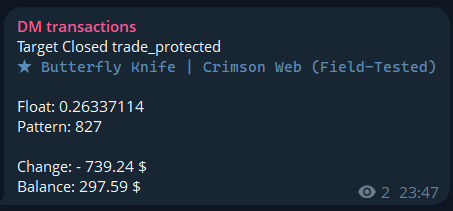
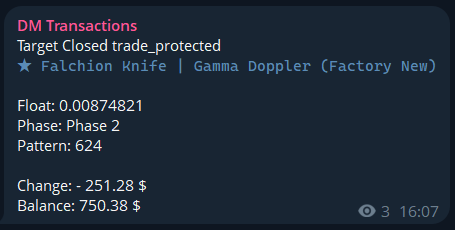
buys fetch, types and readme improve
Change from /history to /user-targets/closed endpoint for fetching buy history. Added new types to handle it.
Updated readme with key problems and solution suggestions. Added TL;DR.
Changed "target closed" post example to show every item's meta-data is printable.

diff --git a/services/transactions.go b/services/transactions.go
@@ -22,21 +22,22 @@ func GetAllTransactions(secretKeys []string) map[string]map[string]float64 {
 	rootApiUrl := "https://api.dmarket.com"
 	client := &http.Client{}
 
-	fmt.Println("Loading all historical transactions to build price cache...")
+	fmt.Println("Loading purchase(s) history...")
 
 	for _, key := range secretKeys {
-		// Initialize the inner map for this secret key
+		// Initialize inner map
 		if _, exists := allTransactions[key]; !exists {
 			allTransactions[key] = make(map[string]float64)
 		}
+		
+		// totalLimit := 100000 // Limit how much buy transactions you want to check
 
-		offset := 0
-		limit := 1000 // Batch size
+		cursor := "" // Start with empty cursor
 		keepFetching := true
-
+		
 		for keepFetching {
-			// Check "purchase" and "target_closed" to find BUY prices.
-			endpoint := fmt.Sprintf("/exchange/v1/history?version=V3&from=0&activities=purchase,target_closed&statuses=success,trade_protected&offset=%d&limit=%d", offset, limit)
+			// Construct URL with Cursor
+			endpoint := fmt.Sprintf("/marketplace-api/v1/user-targets/closed?Limit=500&Status=successful,trade_protected&Cursor=%s", cursor)
 			
 			headers, _ := generateHeaders(key, method, endpoint, nil)
 			req, _ := http.NewRequest(method, rootApiUrl+endpoint, nil)
@@ -44,55 +45,53 @@ func GetAllTransactions(secretKeys []string) map[string]map[string]float64 {
 
 			resp, err := client.Do(req)
 			if err != nil {
-				break 
+				time.Sleep(5 * time.Second)
+				continue
+			}
+
+			// Handle Rate Limits
+			if resp.StatusCode == 429 {
+				resp.Body.Close()
+				time.Sleep(5 * time.Second)
+				continue 
+			}
+			
+			if resp.StatusCode != 200 {
+				body, _ := io.ReadAll(resp.Body)
+				resp.Body.Close()
+				fmt.Printf("API Error %d: %s\n", resp.StatusCode, string(body))
+				break
 			}
 			
 			body, err := io.ReadAll(resp.Body)
 			resp.Body.Close()
-			if err != nil {
-				fmt.Printf("Read body error: %v\n", err)
-				break
-			}
 
-			var response types.TransactionsResponse
+			var response types.UserTargetsClosedResponse
 			if err := json.Unmarshal(body, &response); err != nil {
 				fmt.Printf("Unmarshal error: %v\n", err)
 				break
 			}
 
-			// Process this batch
-			if len(response.Objects) == 0 {
-				keepFetching = false
-			} else {
-				for _, tx := range response.Objects {
-					// We only care if there is an ItemID and a valid money amount
-					if tx.Details.ItemID != "" && len(tx.Changes) > 0 {
-						amountStr := tx.Changes[0].Money.Amount
-						price, err := strconv.ParseFloat(amountStr, 64)
-						if err == nil {
-							// Store the buy price for this ItemID
-							allTransactions[key][tx.Details.ItemID] = price
-						}
-					}
-				}
-				
-				// Set offset
-				offset += len(response.Objects)
-				
-				// Slight delay
-				time.Sleep(100 * time.Millisecond)
-				
-				// Stop if got less object than limit (means last page)
-				if len(response.Objects) < limit {
-					keepFetching = false
+			// Process items
+			for _, trade := range response.Trades {
+				if trade.AssetID != "" {
+					allTransactions[key][trade.AssetID] = trade.Price.Amount
 				}
 			}
+
+			// Pagination
+			if response.Cursor == "" {
+				keepFetching = false
+			} else {
+				// Update cursor and little time sleep
+				cursor = response.Cursor
+				time.Sleep(100 * time.Millisecond)
+			}
 		}
-		fmt.Printf("Loaded %d items for key %s\n", len(allTransactions[key]), key[64:])
+		fmt.Printf("Total loaded buy transaction for key ...%s: %d items\n", key[64:96], len(allTransactions[key]))
 	}
 
 	return allTransactions
-
 }
 
 func GetLastTransactions(keysStamps map[string]string) (map[string][]types.Transaction){
@@ -167,7 +166,6 @@ func PostTransactions(transactions map[string][]types.Transaction, allTransactio
 			showProfit := false
 			
 			// save bought items to dict
-
 			if tx.Type == "purchase" || tx.Type == "target_closed" {
 				if tx.Details.ItemID != "" {
 					allTransactions[key][tx.Details.ItemID] = change

diff --git a/types/types.go b/types/types.go
@@ -55,3 +55,23 @@ type TransactionsResponse struct {
 	Objects []Transaction `json:"objects"`
 	Total   int           `json:"total"`
 }
+
+type TargetTrade struct {
+	OfferID  string `json:"OfferID"`
+	TargetID string `json:"TargetID"`
+	AssetID  string `json:"AssetID"` // This corresponds to ItemID
+	Price    struct {
+		CurrencyCode string  `json:"CurrencyCode"`
+		Amount       float64 `json:"Amount"`
+	} `json:"Price"`
+	Title            string `json:"Title"`
+	ClosedAt         string `json:"ClosedAt"`
+	Status           string `json:"Status"`
+	FinalizationTime string `json:"FinalizationTime"`
+}
+
+type UserTargetsClosedResponse struct {
+	Trades []TargetTrade `json:"Trades"`
+	Total  string        `json:"Total"`  // API returns this as a string number
+	Cursor string        `json:"Cursor"` // Used for pagination
+}

diff --git a/README.md b/README.md
@@ -1,6 +1,13 @@
 # DMarket-To-Telegram Transactions Poster
 
-A Go application to post DMarket transactions such as Sales, Purchases and Closed Targets to Telegram.
+A Go application to post DMarket Sales, Purchases and Closed Targets transactions to Telegram channel.
+
+## Structure
+
+- `cmd/transactionTracker/`: Main executable entrypoint.
+- `services/`: Shared Go modules (e.g., headers builder, transactions, timestamps).
+- `types/`: Types of DMarket responses for service files
+- `config/`: Your keys and templates (real files ignored by Git via `.gitignore`).
 
 ## Setup
 
@@ -31,17 +38,11 @@ Requires **Go 1.16+** (tested on Go 1.24.5, Windows 10).
 5. Run the app:
    - `go run cmd/transactionTracker/main.go`
 
-     or build an .exe file:
+     or (i recommend) build an .exe file:
 
    - `go build -o DMTransactions.exe ./cmd/transactionTracker`
 
 **Troubleshooting**: If configs fail to load, check JSON format. Set `GOPATH` if not default. For multi-account, ensure arrays in JSON match (e.g., private keys index to public keys).
-
-## Structure
-
-- `cmd/transactionTracker/`: Main executable entrypoint.
-- `services/`: Shared Go modules (e.g., headers builder, transactions, timestamps by keys).
-- `config/`: Your keys and templates (real files ignored by Git via `.gitignore`).
 
 ## Dependencies
 
@@ -72,22 +73,52 @@ Reverted Sell post example (from older code version):
 
    This code is **not** what professional project should be like.
 
-2. There are some inconveniences, "rules" and limitations due to DMarket's web history and dumb "programmer":
-   2.1) This code uses history endpoint with sorting **by updatedAt**. This means that transactions that were trade protected **will be posted again** with the new status "Success" or "Reverted".
+2. There are some notes and inconveniences due to DMarket's web history and dumb "programmer":
 
-   2.1.1) This "double-posting" can be "fixed" by adding `&sortBy=createdAt` http param to the endpoint in `func GetLastTransactions()`. **However,** using this will **not** let you know if a transaction got "Reverted" or moved from pending to "Success".
+   2.1) This code uses web `/history` endpoint with sorting by **updatedAt**. This means that transactions that were trade protected **will be posted again** with the new status "Success" or "Reverted". This "double-posting" can be "fixed" by adding `&sortBy=createdAt` http param to the endpoint in `func GetLastTransactions()`.
 
-   2.2) Balance amount **is approximation** if transaction type is "Sell" or "Target Closed" due to DMarket's balance field calculated as `usable balance + lot sold price`, **not income**, so I manually cut out the 2% fee. **However,** for items cheaper than ~7$, the sale fee is 10%. This code does **not** check each item's price and fees. _It could be fixed by requesting balance endpoint everytime, but i'm too lazy for this._
-   Also, i do **not** track "Instant sale" and "Trade" actions because i don't use them. Adding this **requires** more code changes than just adding parameters to link.
+   **However,** using this will **not** let you know if a transaction got "Reverted" or moved from pending to "Success".
 
-   2.3) The profit line **will not** appear every time because **itemId**s are **not** available in some new transactions and all transactions made roughly **before** September 2025.
-   _Maybe i will "expand" "bought-list" using /user-targets/closed endpoint in future_.
+   2.2) Balance amount **is approximation** if transaction type is "Sell" or "Target Closed" due to DMarket's balance field calculated as `usable balance + lot sold price` (**not net income**), so I simulate the 2% fee.
+   **However:** 
+   - 2.2.1) For items cheaper than ~ 7$, the sale fee is 10%. 
+   - 2.2.2) Also, i do **not** track "Instant sale" and "Trade" actions because i don't use them.
 
-   2.4) History **does not** respond with offset greater than **100.000**. I dont have this many transactions, so i probably won't bother fixing it for now.
+   _Adding new actions tracking and requesting balance requires new functions and changing other._
 
-   2.5) This code requests up to 10 last updated transactions per 15 seconds (by default). However, this can be modified by increasing the limit from `&limit=10` to `&limit=100` in func GetLastTransactions() endpoint or/and changing the timing in main.go: `time.Sleep(15 * time.Second)` for something like `time.Sleep(5 * time.Minute)`
-   **Warning:** telegram **will** mute your bot/channel up to 1 minute if you spam too many messages in a few seconds (like 30 messages per 2 seconds).
+   2.3) I use `/user-targets/closed` endpoint to check buy history before the main cycle starts.
+   
+   There is a commented line: `// totalLimit := 100000`. This variable can be used to limit how many previous **buy** (_purchased_ and _target closed_) **transactions** you want to request in total. For using buy tracking limit:
+   - Uncomment `totalLimit` variable line by deleting `// `
 
-   2.6) This code uses **1 telegram bot** for posting across all channels. It can be changed, but this requires some **major changes** in secretKeys.json and some services/ files, so **i do not recommend changing it** unless you have patience to read and modify this not-very-well-written code.
+   - Change this line `if response.Cursor == "" {` to this:
+     `if response.Cursor == "" || len(allTransactions[key]) > totalLimit {`
 
-   2.7) There is probably more features to be added and bugs to be found.
+   - note that limiting buy history for specified account requires code changes not represented here
+
+   2.4) Default settings requests up to 10 last updated transactions with a frequency of 15 seconds. **However**:
+
+   - 2.4.1) At trade unlock time (8:00 GMT) DMarket verifies trades statuses and can push a bunch of transactions to the top of the history. This means there can be a lot of posts. To handle this properly, read and use the instructions in points 2.4.2 or 2.1.
+   - 2.4.2) This can be modified by increasing the limit from `&limit=10` to `&limit=100` (or any other) in func GetLastTransactions() endpoint or/and changing the timing in main.go: `time.Sleep(15 * time.Second)` for something like `time.Sleep(5 * time.Minute)`
+
+   **Alert:** telegram **can** mute your bot/channel up to 1 minute if you spam too many messages in a few seconds (e.g., 30 messages per 2 seconds).
+
+   2.5) This code uses **1 telegram bot** for posting across all channels. It can be changed, but this requires some **major changes** in `secretKeys.json` and some `services/` files, so **i do not recommend changing it** unless you have patience to read and modify this not-very-well-written code.
+
+   2.6) This code does **not** print stickers info (applied on skins). Maybe i will add this later.
+
+3. You can suggest any other feature/bug/idea. For example i'm thinking of:
+   - fetching CSFloat buy history by using api key to calculate profit for items bought outside of DMarket.
+   - calculating profit and price for non-USD currency.
+   - print total pending balance next to "usable" in message.
+
+### TL;DR (Quick Summary)
+1. Status: Experimental/Amateur vibecoded project. Expect quirks.
+
+2. Double Posts: Transactions appear twice (Pending → Success) because of DMarket's sorting logic. Check note **2.1** for details.
+
+3. Money: Balance is an estimate. It hardcodes a 2% fee and misses the 10% fee for cheap items.
+
+4. Spam Warning: Watch out for the 8:00 GMT unlock wave; high volume might trigger a Telegram mute. Adjust timing and request limits. Check note **2.4.1** for details.
+
+5. Architecture: Uses one Telegram bot to manage all channels
